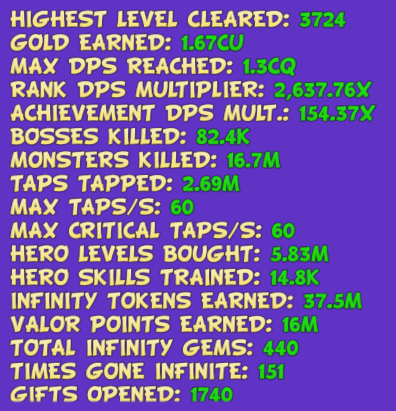
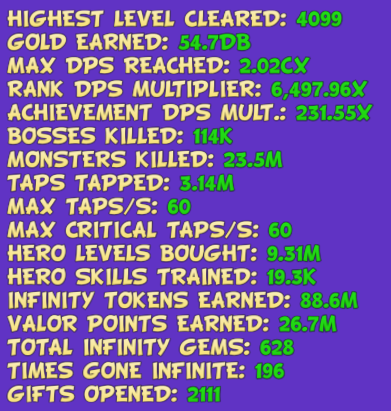
updated save file and information inside README

diff --git a/README.md b/README.md
@@ -4,8 +4,8 @@ This repository contains [save](./SAVE) for [Tap Tap Infinity](https://store.ste
 
 ## All time stats
 
-* **Achievements earned:** 93/100
-* **Ascend times:** 8
+* **Achievements earned:** 94/100
+* **Ascend times:** 9
 
 [All time stats](./all-time-stats.png)
 
